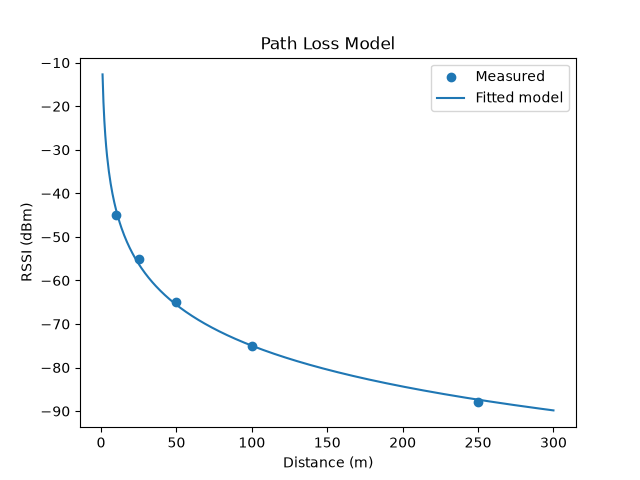
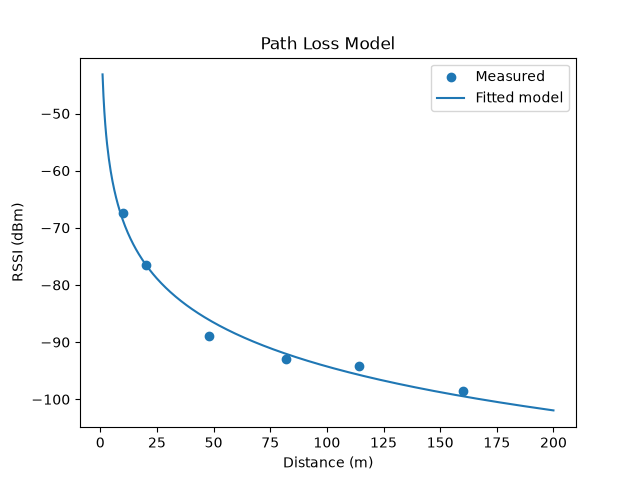
field data collection and analysis, path loss model fit (A=-43.2, n=2.55), range estimation with 12% mean error

diff --git a/analyze.py b/analyze.py
@@ -1,11 +1,41 @@
 import scipy
 import numpy
+import csv
 from scipy.optimize import curve_fit
 import matplotlib.pyplot as plt
 
-distances = numpy.array([10, 25, 50, 100, 250])
-rssi_values = numpy.array([-45, -55, -65, -75, -88])
-d_smooth = numpy.linspace(1, 300, 500)
+#stores rssi values as a dictionary with distance obtained as the key and lists of measurements as the values 
+#distances are in meters, converted from yards
+data = {
+    10: [],
+    20: [],
+    48: [],
+    82: [],
+    114: [],
+    160: [],
+}
+
+with open ('log.csv', 'r') as f:
+    reader = csv.reader(f)
+    header = next(reader)
+
+    for row in reader:
+        time = row[0][11:19]
+        if '13:22:00' < time < '13:25:00':
+            data[10].append(int(row[2]))
+        elif '13:25:00' < time < '13:28:00':
+            data[20].append(int(row[2]))
+        elif '13:30:00' < time < '13:33:00':
+            data[48].append(int(row[2]))
+        elif '13:35:00' < time < '13:39:00':
+            data[82].append(int(row[2]))
+        elif '13:40:00' < time < '13:44:00':
+            data[114].append(int(row[2]))
+        elif '13:45:00' < time < '13:49:00':
+            data[160].append(int(row[2]))
+
+distances = numpy.array(list(data.keys()))
+rssi_values = numpy.array([numpy.mean(v) for v in data.values()])
 
 def path_loss_model(d, A, n):
     return A - 10 * n * numpy.log10(d)
@@ -18,9 +48,21 @@ popt, pcov = curve_fit(path_loss_model,distances,rssi_values)
 print(popt)
 print(pcov)
 
+d_smooth = numpy.linspace(1, 200, 500)
 predicted_rssi = path_loss_model(d_smooth,popt[0],popt[1])
 
 print(estimate_range(-65, popt[0], popt[1]))
+
+for d in data:
+    print(f"{d}m: mean={numpy.mean(data[d]):.1f} std={numpy.std(data[d]):.1f} ({len(data[d])} samples)")
+
+A, n = popt[0], popt[1]
+
+for d in data:
+    mean_rssi = numpy.mean(data[d])
+    estimated = estimate_range(mean_rssi, A, n)
+    error = abs(estimated - d)
+    print(f"True: {d}m | Estimated: {estimated:.1f}m | Error: {error:.1f}m ({error/d*100:.0f}%)")
 
 plt.figure()
 plt.scatter(distances, rssi_values, label='Measured')
